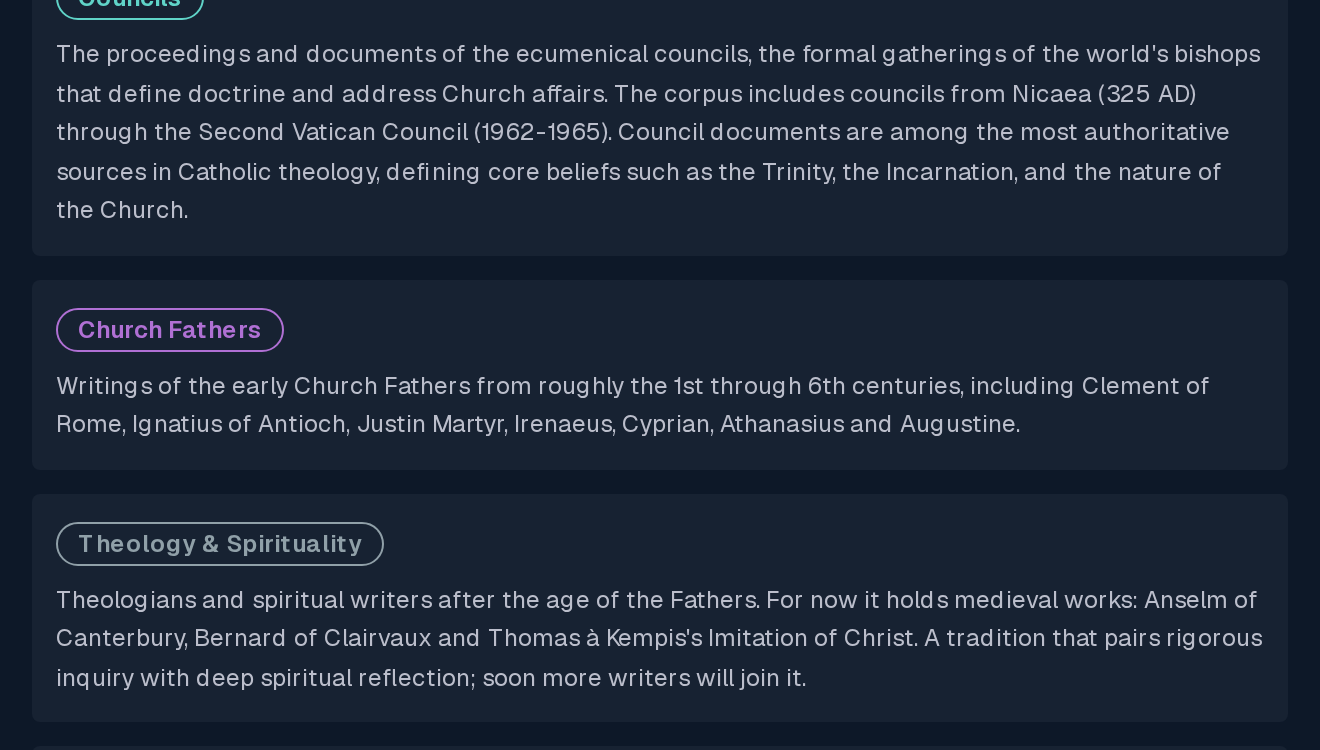
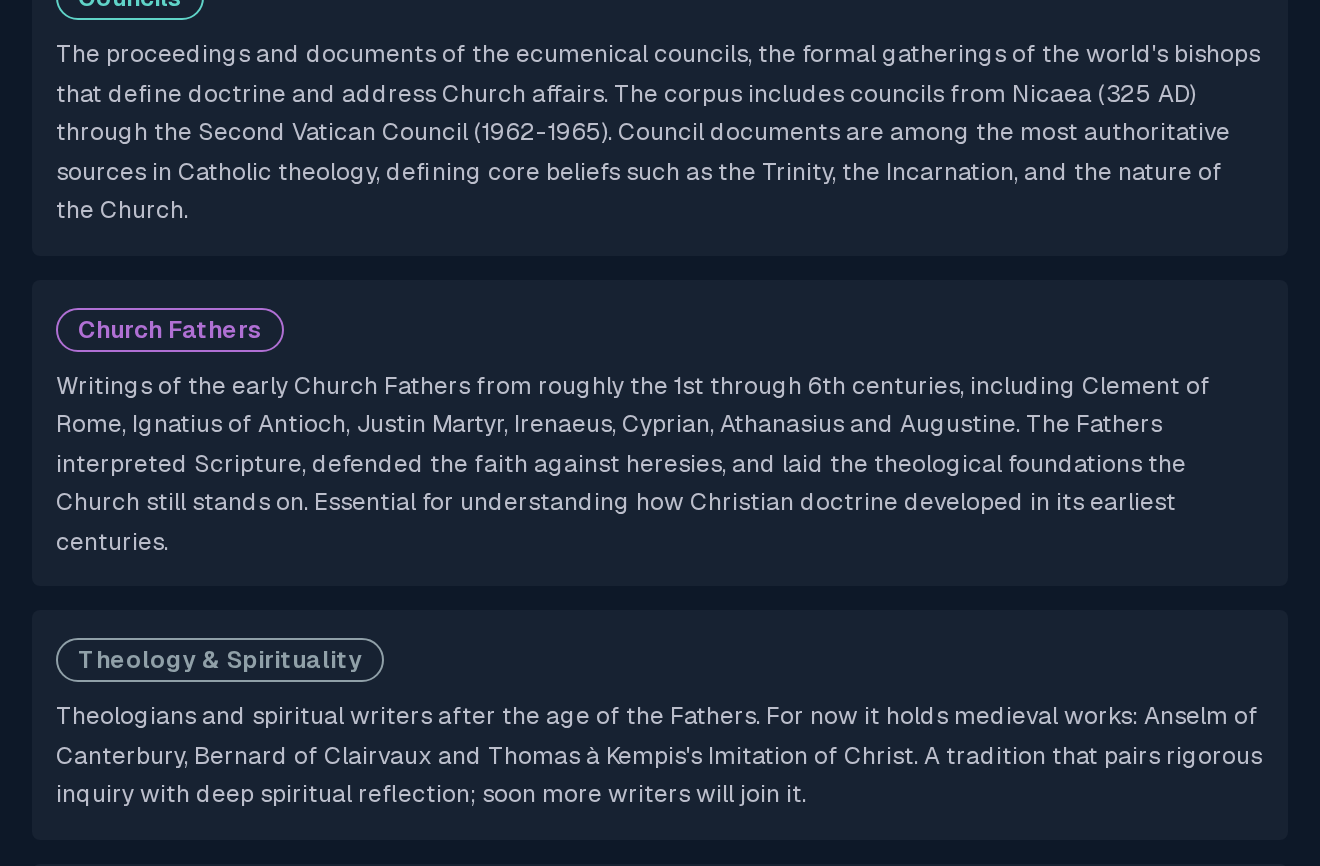
fix: keep the Church Fathers description's last two sentences
Only the name list changes; the sentences on what the Fathers did and why
they matter stay as they were.

diff --git a/apps/web/src/components/about/AboutPage.tsx b/apps/web/src/components/about/AboutPage.tsx
@@ -13,7 +13,7 @@ const COLLECTION_DESCRIPTIONS: Record<string, string> = {
   councils:
     "The proceedings and documents of the ecumenical councils, the formal gatherings of the world's bishops that define doctrine and address Church affairs. The corpus includes councils from Nicaea (325 AD) through the Second Vatican Council (1962-1965). Council documents are among the most authoritative sources in Catholic theology, defining core beliefs such as the Trinity, the Incarnation, and the nature of the Church.",
   "church-fathers":
-    "Writings of the early Church Fathers from roughly the 1st through 6th centuries, including Clement of Rome, Ignatius of Antioch, Justin Martyr, Irenaeus, Cyprian, Athanasius and Augustine.",
+    "Writings of the early Church Fathers from roughly the 1st through 6th centuries, including Clement of Rome, Ignatius of Antioch, Justin Martyr, Irenaeus, Cyprian, Athanasius and Augustine. The Fathers interpreted Scripture, defended the faith against heresies, and laid the theological foundations the Church still stands on. Essential for understanding how Christian doctrine developed in its earliest centuries.",
   theologians:
     "Theologians and spiritual writers after the age of the Fathers. For now it holds medieval works: Anselm of Canterbury, Bernard of Clairvaux and Thomas à Kempis's Imitation of Christ. A tradition that pairs rigorous inquiry with deep spiritual reflection; soon more writers will join it.",
   "church-law":

diff --git a/apps/web/src/components/about/AboutPage.test.tsx b/apps/web/src/components/about/AboutPage.test.tsx
@@ -41,7 +41,7 @@ describe("AboutPage", () => {
   it("lists the Fathers without Boethius, who stays in the collection", () => {
     const { container } = render(<AboutPage />);
     expect(container.textContent).toContain(
-      "Writings of the early Church Fathers from roughly the 1st through 6th centuries, including Clement of Rome, Ignatius of Antioch, Justin Martyr, Irenaeus, Cyprian, Athanasius and Augustine.",
+      "Writings of the early Church Fathers from roughly the 1st through 6th centuries, including Clement of Rome, Ignatius of Antioch, Justin Martyr, Irenaeus, Cyprian, Athanasius and Augustine. The Fathers interpreted Scripture, defended the faith against heresies, and laid the theological foundations the Church still stands on. Essential for understanding how Christian doctrine developed in its earliest centuries.",
     );
     expect(container.textContent).not.toContain("Boethius");
   });
